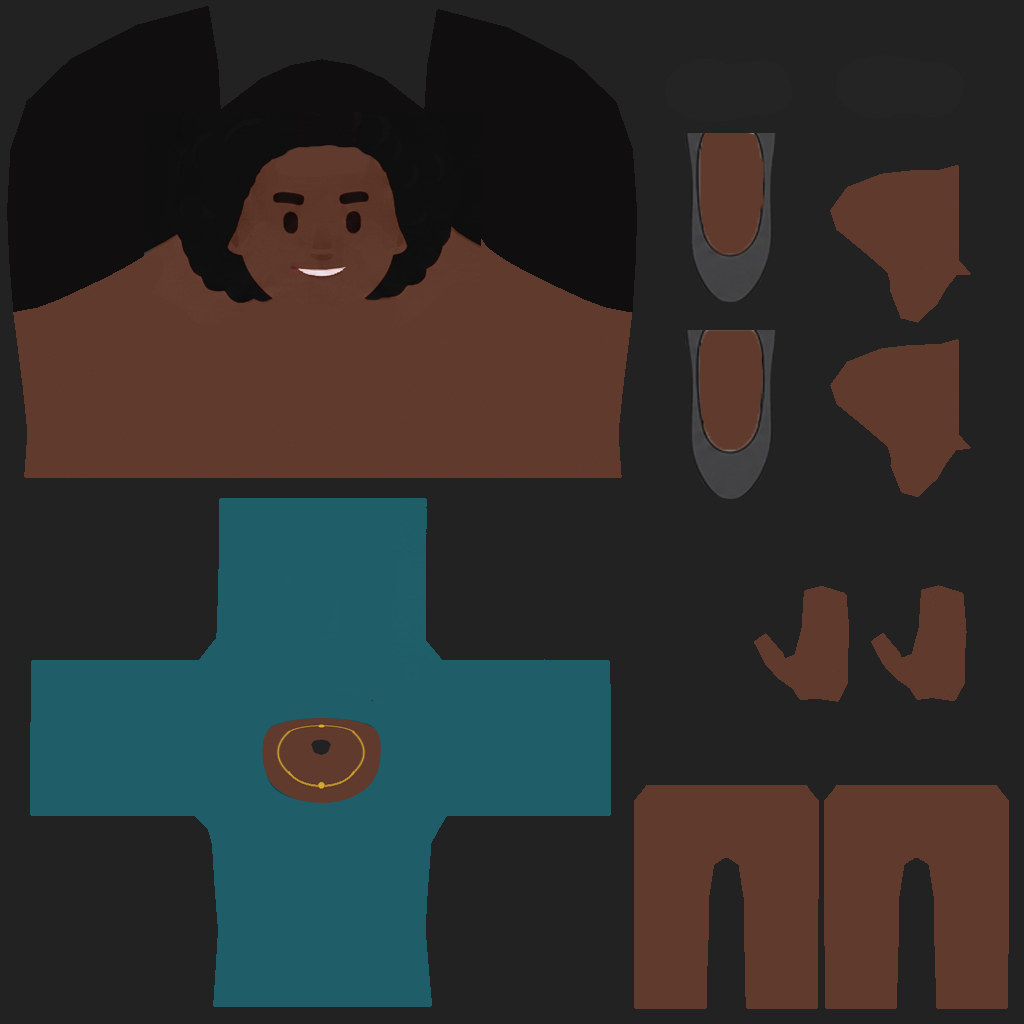
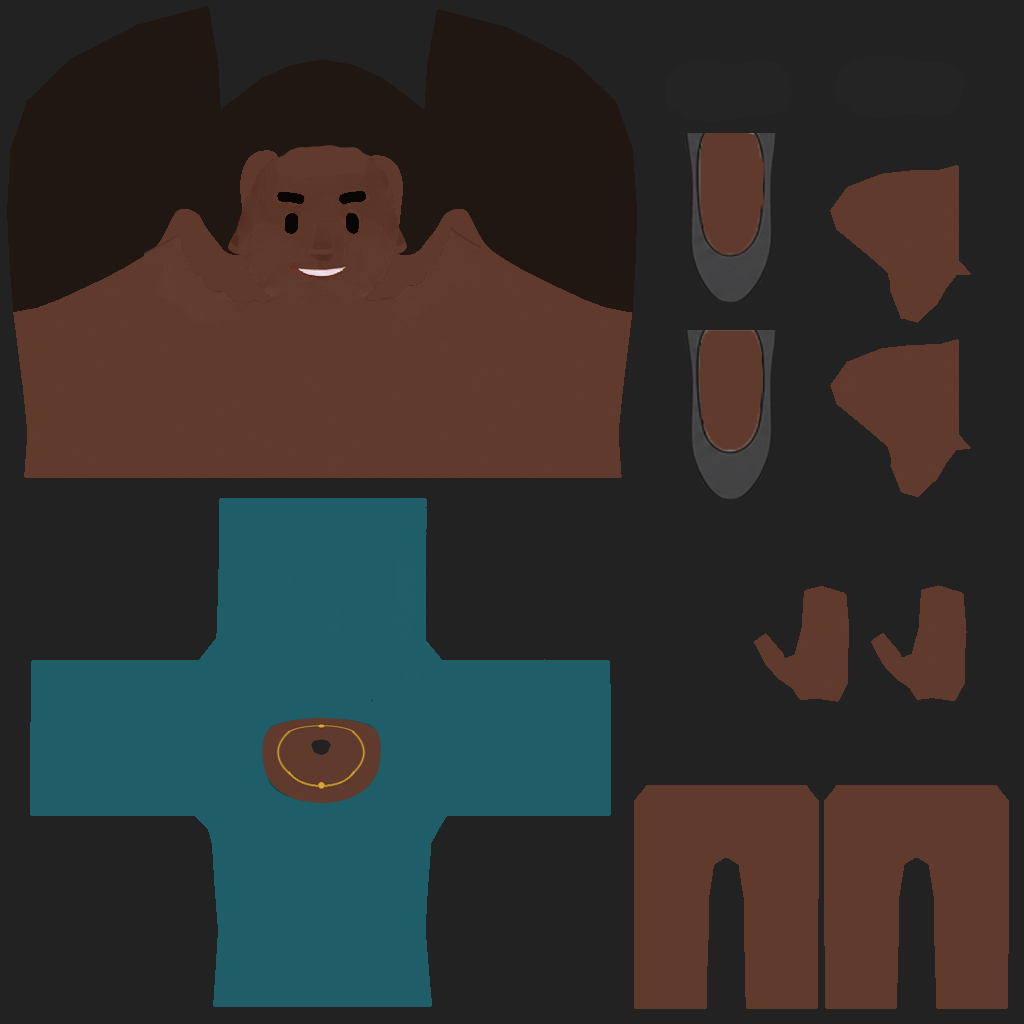
Fix colleague skins to match the Survivors kit UV.
Old Kenney atlases and misaligned custom paints were mapped onto character_kit.glb, so faces went black and clothes landed on the wrong islands.

diff --git a/tools/editor/src/skin.ts b/tools/editor/src/skin.ts
@@ -1,7 +1,7 @@
 import * as THREE from 'three';
 
-/** 与 humanoid.ts 一致：游戏加载 PNG 也是 flipY + sRGB */
-export async function loadSkinMap(url: string, flipY = true): Promise<THREE.Texture> {
+/** 与战场一致：glTF / Survivors kit 图集 flipY=false */
+export async function loadSkinMap(url: string, flipY = false): Promise<THREE.Texture> {
   const tex = await new THREE.TextureLoader().loadAsync(url);
   tex.colorSpace = THREE.SRGBColorSpace;
   tex.flipY = flipY;
@@ -21,7 +21,7 @@ export function applySkin(mesh: THREE.Mesh, map: THREE.Texture) {
 
 export async function skinFromFile(
   file: File,
-  flipY = true
+  flipY = false
 ): Promise<{ map: THREE.Texture; width: number; height: number; square: boolean; url: string }> {
   const url = URL.createObjectURL(file);
   const img = await new Promise<HTMLImageElement>((resolve, reject) => {

diff --git a/src/catalog.ts b/src/catalog.ts
@@ -95,8 +95,8 @@ export const IDENTITY_TRANSFORM: HairTransform = {
 };
 
 export const OFFICIAL_SKINS: SkinDef[] = [
-  { id: 'kenney-male-a', file: '/models/kenney/humanMaleA.png', flipY: false },
-  { id: 'kenney-female-a', file: '/models/kenney/humanFemaleA.png', flipY: false },
+  { id: 'kenney-male-a', file: '/models/kit/textures/survivorMaleB.png', flipY: false },
+  { id: 'kenney-female-a', file: '/models/kit/textures/lady_03_purple_vest_skirt.png', flipY: false },
 ];
 
 export function slotSkinId(slotId: string) {
